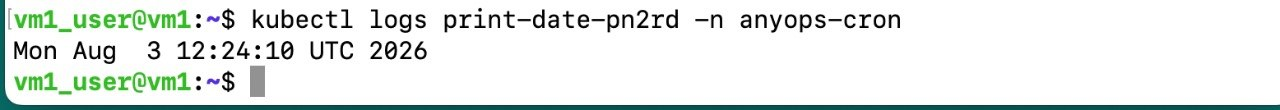
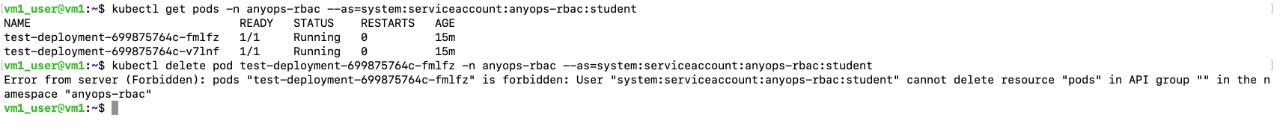
pushinh k8s-4 assignment related to k8s RBAC

Changed region(s): [[0.0, 0.0, 1.0, 1.0]]

diff --git a/README.md b/README.md
@@ -1,111 +1,155 @@
 
-# # Homework — Jobs and CronJobs (beginner level)
+# Homework — RBAC (beginner level)
 
-## A little theory
+## Tasks
 
-Pods in a Deployment are supposed to keep running forever. But some work isn't like that — taking a backup, sending a report, cleaning up old files — that work should run once and finish. That's exactly what **Jobs** and **CronJobs** are for.
+### 1. Create a namespace
+Create a namespace called `anyops-rbac`. Every resource below must live inside it.
 
-| Thing | What it does |
-|-------|--------------|
-| **Job** | Runs once, does its work, finishes. The pod ends up `Completed` and is not restarted. |
-| **CronJob** | Creates Jobs for you on a schedule. Same syntax as Linux `crontab`. |
+### 2. Create a ServiceAccount
+Create a ServiceAccount called `student`.
+
+### 3. Create a Role
+Create a Role called `pod-reader`. It may **only** `get`, `list` and `watch` pods.
+Nothing else: no `create`, no `delete`, no secrets.
 
 
-### 1. A Job that runs once and stops
-Create a Job named `print-date` that:
-- uses the `busybox` image
-- prints the current date
-- finishes and does not restart
-
-Once it's created, check:
-- What's the Job's status? (`kubectl get jobs -n anyops-cron`)
+### 4. Create a RoleBinding
+Create a RoleBinding called `app-reader` that binds the `student` ServiceAccount to the `pod-reader` Role.
 
 ![App Screenshot](images/output1.png)
 
-- What state did the pod end up in? (`Running`, `Completed`, something else?)
+### 5. Check the permissions
+Use `kubectl auth can-i` to answer each of these and write down the result:
+
+| # | What we're checking | Your answer |
+|---|---------------------|-------------|
+| 1 | Can `student` **get** pods in `anyops-rbac`? | yes |
+| 2 | Can `student` **list** pods in `anyops-rbac`? | yes |
+| 3 | Can `student` **delete** pods in `anyops-rbac`? | no |
+| 4 | Can `student` read **secrets** in `anyops-rbac`? | no |
+| 5 | Can `student` get pods in the `default` namespace? | no |
 
 ![App Screenshot](images/output2.png)
 
-- What's in the pod's logs?
+> The `--as=system:serviceaccount:<namespace>:<sa-name>` flag lets you check permissions as if you were that account.
+
+### 6. Try it for real (optional, but recommended)
+Run a simple `nginx` pod in the namespace, then list pods as `student`. Did it work? Now try to delete that pod as `student` — what happened, and what exactly does the error message say?
 
 ![App Screenshot](images/output3.png)
-### 2. A CronJob that runs every 2 minutes
 
-Create a CronJob named `date-logger` that:
-- runs **every 2 minutes**
-- logs the current time on each run
-- uses the `busybox` image
+## Tasks
+
+### 1. Create a namespace
+Create a namespace called `anyops-rbac`. Every resource below must live inside it.
+
+### 2. Create a ServiceAccount
+Create a ServiceAccount called `student`.
+
+### 3. Create a Role
+Create a Role called `pod-reader`. It may **only** `get`, `list` and `watch` pods.
+Nothing else: no `create`, no `delete`, no secrets.
 
 
-After creating it, **watch for at least 5-6 minutes** and check:
+### 4. Create a RoleBinding
+Create a RoleBinding called `app-reader` that binds the `student` ServiceAccount to the `pod-reader` Role.
 
-- Does the CronJob show up? (`kubectl get cronjob -n anyops-cron`)
+![App Screenshot](images/output1.png)
 
-![App Screenshot](images/output4.png)
+### 5. Check the permissions
+Use `kubectl auth can-i` to answer each of these and write down the result:
 
-- How many Jobs were created?
+| # | What we're checking | Your answer |
+|---|---------------------|-------------|
+| 1 | Can `student` **get** pods in `anyops-rbac`? | yes |
+| 2 | Can `student` **list** pods in `anyops-rbac`? | yes |
+| 3 | Can `student` **delete** pods in `anyops-rbac`? | no |
+| 4 | Can `student` read **secrets** in `anyops-rbac`? | no |
+| 5 | Can `student` get pods in the `default` namespace? | no |
 
-![App Screenshot](images/output5.png)
+![App Screenshot](images/output2.png)
 
-- What's in each Job's logs? Are the timestamps 2 minutes apart?
+> The `--as=system:serviceaccount:<namespace>:<sa-name>` flag lets you check permissions as if you were that account.
 
-![App Screenshot](images/output6.png)
+### 6. Try it for real (optional, but recommended)
+Run a simple `nginx` pod in the namespace, then list pods as `student`. Did it work? Now try to delete that pod as `student` — what happened, and what exactly does the error message say?
 
-### 3. Managing it (small bonus)
-
-- **Suspend** the CronJob temporarily, then resume it.
-- Trigger one Job from the CronJob **right now**, without waiting for the schedule.
-
-![App Screenshot](images/output7.png)
-
-![App Screenshot](images/output8.png)
+![App Screenshot](images/output3.png)
 ## Answers
 
-*  Why doesn't a Job's pod disappear after it finishes — why does it stay in `Completed`?
+## 1. Why isn't creating just a Role enough?
 
-        Kubernetes keeps completed Job pods so you can inspect their logs, check exit codes, and debug any issues after the process finishes.
+A `Role` only **defines** a set of permissions (which verbs are allowed on which resources) — it doesn't say **who** gets those permissions. It's like writing a job description but never assigning anyone to the job.
 
-        A Kubernetes Job pod stays in the Completed state because Kubernetes intentionally retains finished pods so you can inspect their logs and review their exit status.
+You need a `RoleBinding` to actually connect the Role to a subject (a `User`, `Group`, or `ServiceAccount`). Without the binding, the Role exists in the cluster but grants access to nobody.
 
-*  Can you use `restartPolicy: Always` in a Job? Why or why not?
+This is exactly what happened in the walkthrough: the `pod-reader` Role existed after `kubectl apply`, but `student` still had no permissions until the `app-reader` RoleBinding was created to tie the Role to the `student` ServiceAccount.
 
-        No, you cannot use restartPolicy: Always in a Kubernetes Job because Kubernetes rejects it with a validation error.
+## 2. What's the difference between a Role and a ClusterRole?
 
-        Job definition: A Kubernetes Job is designed to run a task to completion and then stop.
+| | Role | ClusterRole |
+|---|---|---|
+| Scope | Namespace-scoped | Cluster-scoped |
+| Applies to | Resources in one namespace only | Can apply cluster-wide, or to non-namespaced resources |
+| Example use | `pod-reader` in `anyops-rbac` only | Access to `nodes`, `persistentvolumes`, `namespaces`, or a reusable role across many namespaces |
 
-        Allowed values: The restartPolicy for a Job's Pod template is restricted strictly to OnFailure or Never.
+- A **Role**'s permissions only apply within the one namespace it's created in. Even when bound, the subject can't use those permissions in any other namespace.
+- A **ClusterRole** is reusable and can grant permissions across all namespaces, or be used for cluster-level resources that don't belong to any namespace at all.
 
-        Conflict of purpose: Always is meant for long-running, continuous services (like Deployments or DaemonSets) that should never finish. If a Job container finished successfully with an exit code of 0 and the policy was Always, the system would endlessly restart the finished container, defeating the purpose of a finite task.
+Whether a ClusterRole's permissions apply cluster-wide or just to one namespace depends on **how it's bound**:
+- `ClusterRoleBinding` → applies cluster-wide.
+- `RoleBinding` (referencing a ClusterRole) → applies only within that one namespace.
 
-* Do `*/2 * * * *` and `2 * * * *` mean the same thing?
+This last pattern is common: define a ClusterRole once, then bind it in multiple namespaces via separate RoleBindings — avoiding duplicate Role definitions.
 
-        No, */2 * * * * and 2 * * * * do not mean the same thing.
+## 3. If `watch` were missing from `pod-reader`, would `kubectl get pods -w` still work?
 
-        */2 * * * * (Every 2 minutes):Runs repeatedly throughout the hour.Triggers at minute 0, 2, 4, 6, 8, and so on, all the way to minute 58. Executes 30 times every hour.
-        2 * * * * (At minute 2):Runs only once per hour.Triggers strictly when the clock hits 2 minutes past the hour (e.g., 1:02, 2:02, 3:02). Executes 1 time every hour.
+**No.**
 
-* Does a CronJob keep old Jobs forever? How would you limit that?
+The `-w` (`--watch`) flag opens a **watch** connection to the API server to stream changes in real time. This uses the `watch` verb specifically — distinct from `get` or `list`.
 
-        No, a Kubernetes CronJob does not keep old Jobs forever; it automatically cleans them up using built-in history limits.
+Without `watch` in the Role, the command would fail with something like:
 
-        apiVersion: batch/v1
-        kind: CronJob
-        metadata:
-        name: example-cron
-        spec:
-        schedule: "0 * * * *"
-        successfulJobsHistoryLimit: 5  # Keep last 5 successful jobs
-        failedJobsHistoryLimit: 2     # Keep last 2 failed jobs
-        jobTemplate:
-            spec:
-            template:
-                spec:
-                restartPolicy: OnFailure
-                containers:
-                - name: task
-                    image: busybox
+```
+Error from server (Forbidden): pods is forbidden: User "student" cannot watch resource "pods" in API group "" in the namespace "anyops-rbac"
+```
 
-*  If the command inside a Job exits with an error, what does Kubernetes do?
+`get` and `list` would still work fine for one-time reads — only the streaming/watch behavior would break.
 
-        When a command inside a Kubernetes Job exits with an error, Kubernetes determines its behavior based on the restartPolicy configured in the Pod template, eventually respecting the Job's backoffLimit.
+## 4. If you wanted to give the same Role to 5 different ServiceAccounts, how many Roles and how many RoleBindings would you write?
 
+- **1 Role** — permissions are reused, not duplicated.
+- **5 RoleBindings** — one per ServiceAccount, in the "one binding per grant" mental model.
+
+**Alternative:** a single RoleBinding can list multiple subjects, so it's also valid to use **1 Role + 1 RoleBinding**:
+
+```yaml
+apiVersion: rbac.authorization.k8s.io/v1
+kind: RoleBinding
+metadata:
+  name: pod-reader-binding
+  namespace: anyops-rbac
+subjects:
+- kind: ServiceAccount
+  name: student1
+  namespace: anyops-rbac
+- kind: ServiceAccount
+  name: student2
+  namespace: anyops-rbac
+- kind: ServiceAccount
+  name: student3
+  namespace: anyops-rbac
+- kind: ServiceAccount
+  name: student4
+  namespace: anyops-rbac
+- kind: ServiceAccount
+  name: student5
+  namespace: anyops-rbac
+roleRef:
+  kind: Role
+  name: pod-reader
+  apiGroup: rbac.authorization.k8s.io
+```
+
+Both approaches are valid — "5 RoleBindings" is the more common/expected answer, but the multi-subject shortcut is worth knowing.
